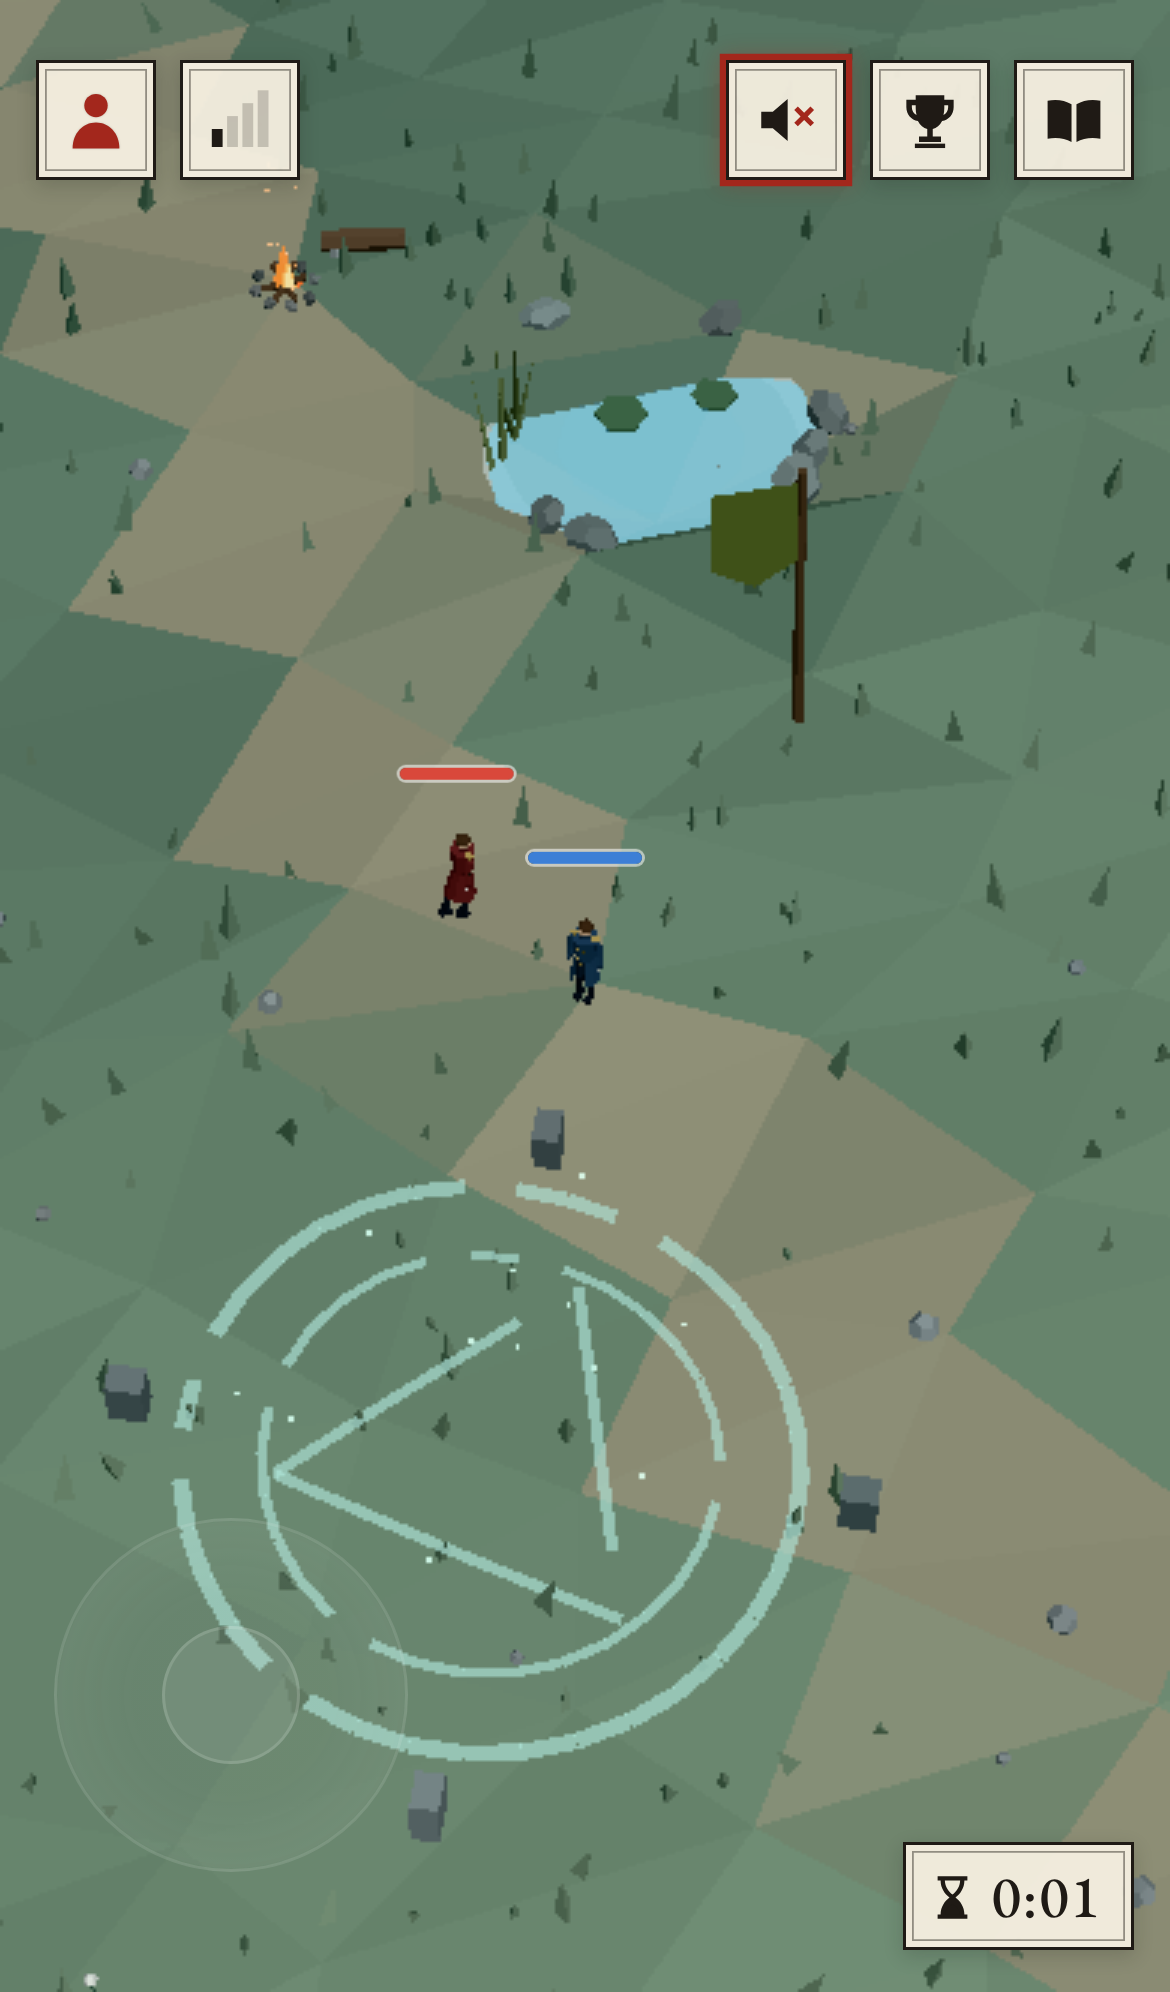
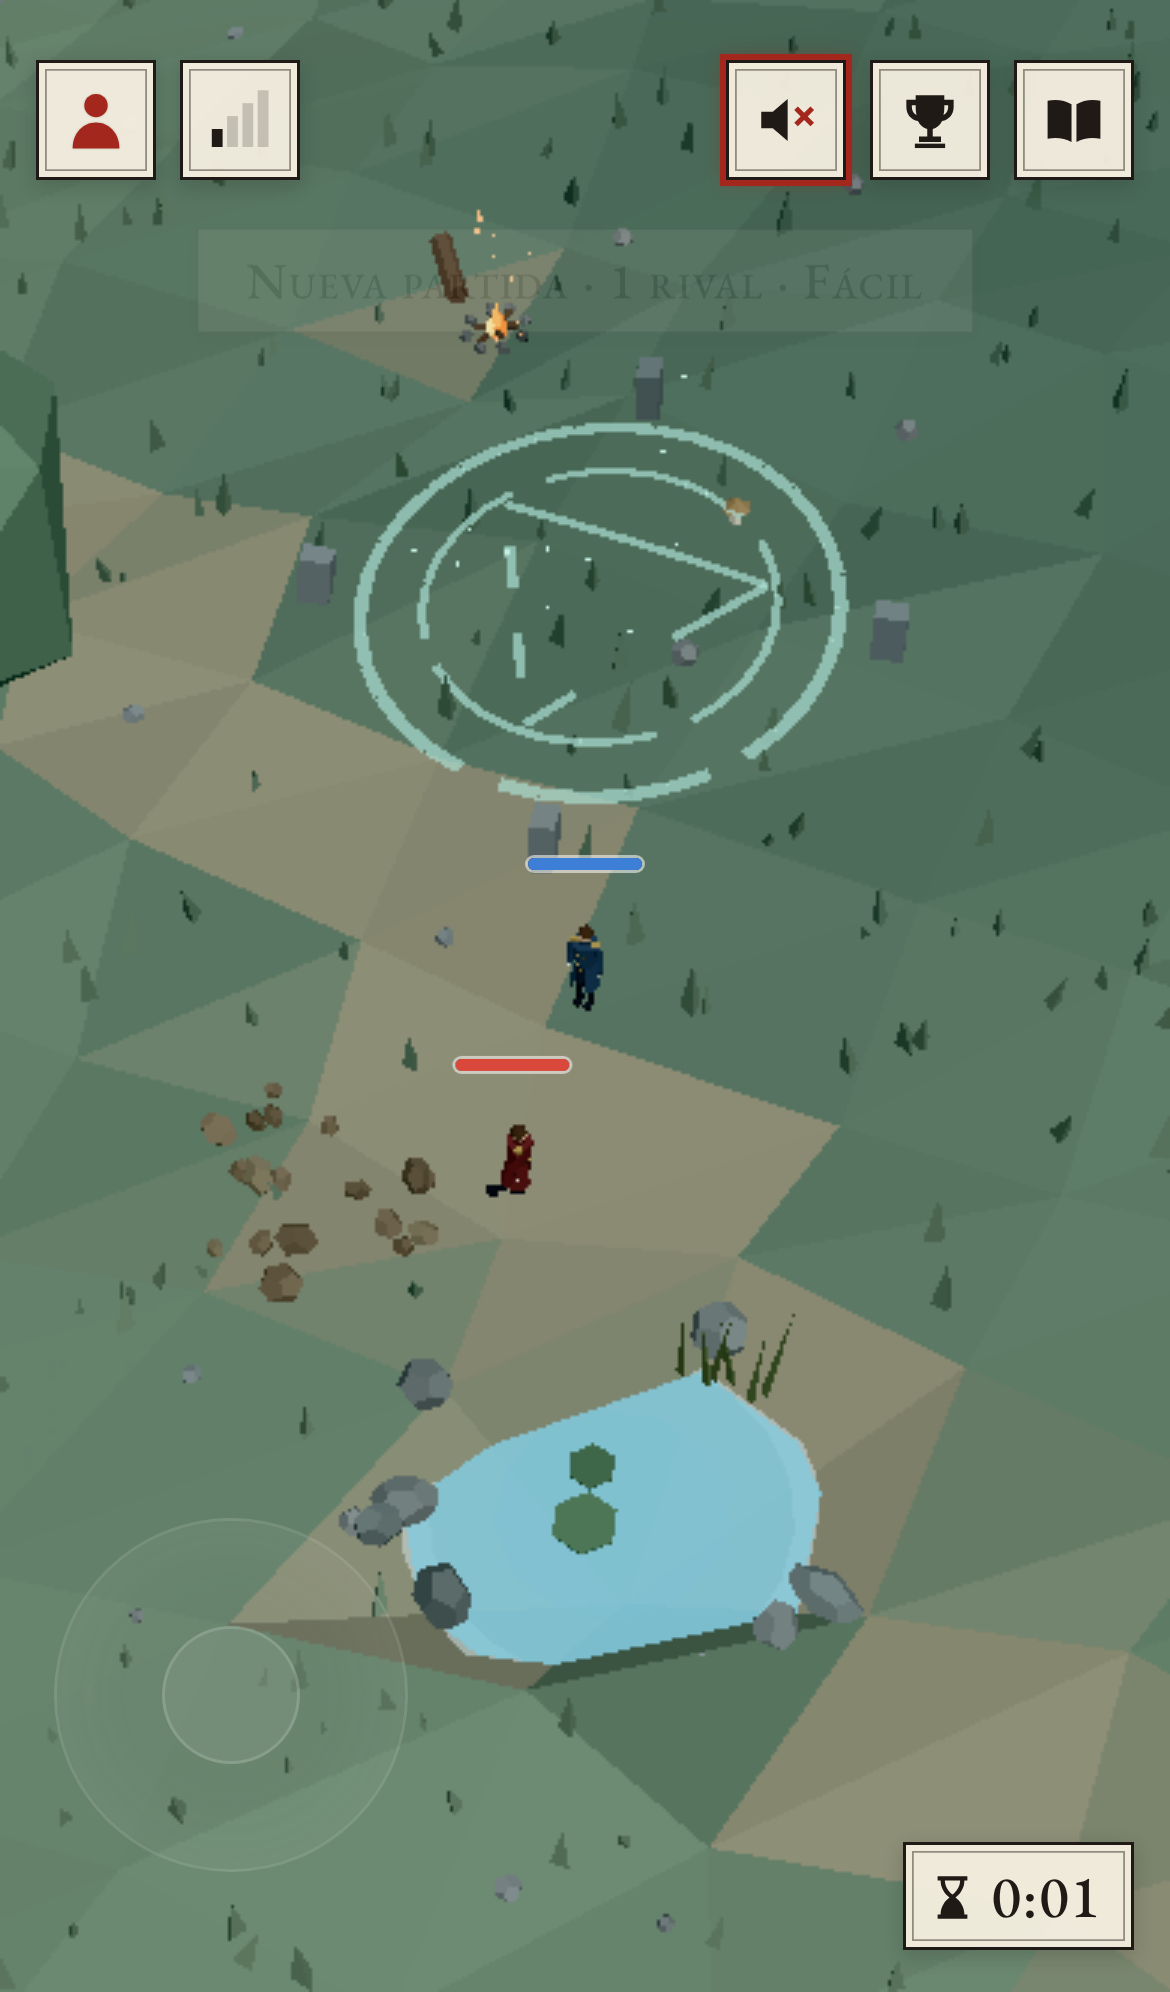
fix(training): go-to-battle button sits beside the training pill on phones
Claude-Session: https://claude.ai/code/session_01WWzoGY9qDqiWmNPVEiqocK

diff --git a/index.html b/index.html
@@ -769,7 +769,9 @@
       #battle-btn:focus-visible { outline: 1px solid var(--g-ink); outline-offset: 2px; }
       #battle-btn .hud-icon { width: 20px; height: 20px; flex: none; margin-top: -2px; }
       #battle-btn .hud-icon .red { fill: var(--g-paper); }
-      @media (max-width: 699.98px) { #battle-btn { top: calc(var(--edge-top) + 52px); height: 38px; font-size: 18px; } }
+      /* Phones: in the HUD row, right after the training pill. */
+      @media (max-width: 699.98px) { #battle-btn { left: calc(max(12px, env(safe-area-inset-left)) + 48px); transform: none; gap: 6px; padding: 0 12px 0 9px; font-size: 18px; letter-spacing: .03em; } #battle-btn:active { transform: scale(.95); } }
+      @media (max-width: 374.98px) { #battle-btn { padding: 0 7px; font-size: 15px; letter-spacing: 0; } #battle-btn .hud-icon { display: none; } }
       #match-end p.train-tip { margin: -6px 0 14px; font-style: normal; color: var(--g-ink); }
       #match-end p.train-tip[hidden] { display: none; }
       #match-end .train .hud-icon { color: var(--g-ink); }
